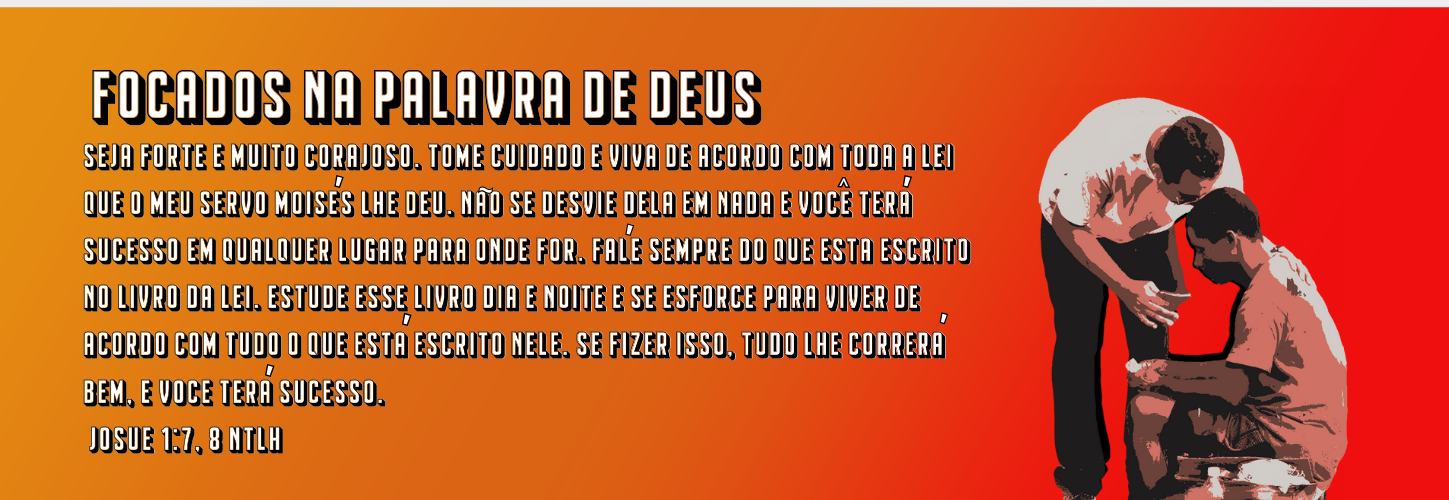
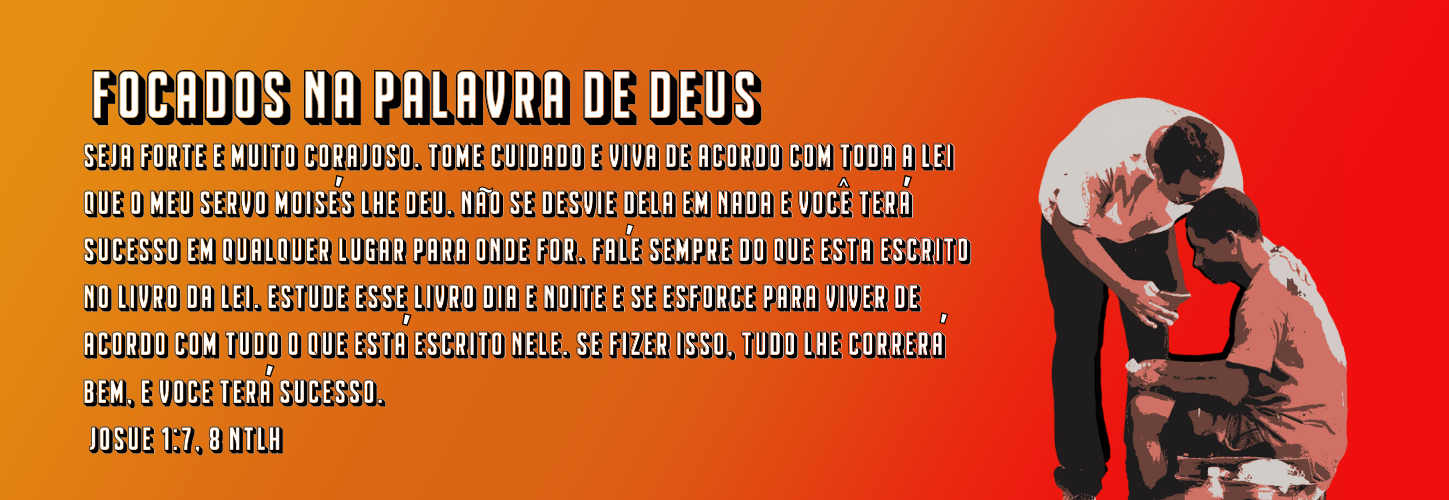
Feature/home (#8)
* mudanças básicas

* mudanças de sliders

sliders atualizados, imagens com informações atualizadas

* slides prontoseu acho

Changed region(s): [[0.0, 0.0, 1.0, 0.03]]

diff --git a/index.html b/index.html
@@ -1,5 +1,5 @@
 <!DOCTYPE html>
-<html lang="en">
+<html lang="pt-br">
 <head>
   <meta charset="UTF-8">
   <meta name="viewport" content="width=device-width, initial-scale=1.0">
@@ -52,10 +52,8 @@
     </nav><!--final nav-->
   </header><!--final header-->
 
-  <section class="topo d-flex "><!-- inicio section -->
-    <div class=""><!-- inicio container -->
+  <section class="topo d-flex "><!-- inicio section -->  
       <div class="row"><!-- inicio row -->
-        <div class="col-sm-12 m-auto"><!-- inicio col-md -->
           <div id="carousel-indicadores" class="carousel slide" data-ride="carousel"><!-- inicio carousel -->
 
             <ol class="carousel-indicators"><!-- inicio indicadores -->
@@ -65,11 +63,11 @@
         
             <div class="carousel-inner "><!-- inicio inner-->
               <div class="carousel-item active">
-                <img src="imagens/1.png" alt="" class="img-fluid ">
+                <img src="imagens/1.png" alt="" class="d-block w-180 img-fluid align-self-center ">
               </div>
         
               <div class="carousel-item">
-                <img src="imagens/2.png" alt="" class="img-fluid">
+                <img src="imagens/2.png" alt="" height="450" class="d-block w-180 img-fluid align-self-center">
               </div>
         
             </div><!-- final inner -->
@@ -84,9 +82,7 @@
             </a>
         
           </div><!-- final carousel -->
-        </div><!-- final col-md -->
       </div><!-- final row-->
-    </div><!-- final container -->
   </section><!--final section-->
 
 

diff --git a/css/estilo.css b/css/estilo.css
@@ -1,7 +1,6 @@
 body{
-  overflow-x: hidden;
+ overflow-x: hidden;
 }
-
 
 /*
 Barra de navegação
@@ -52,6 +51,7 @@ conteudos
 
 .carousel-item {
   height: 100%;
+  /*width: auto;*/
 }
 /*
 Programações
